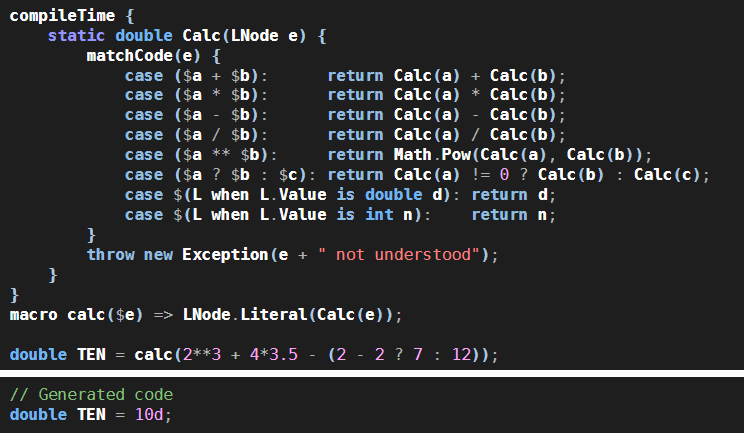
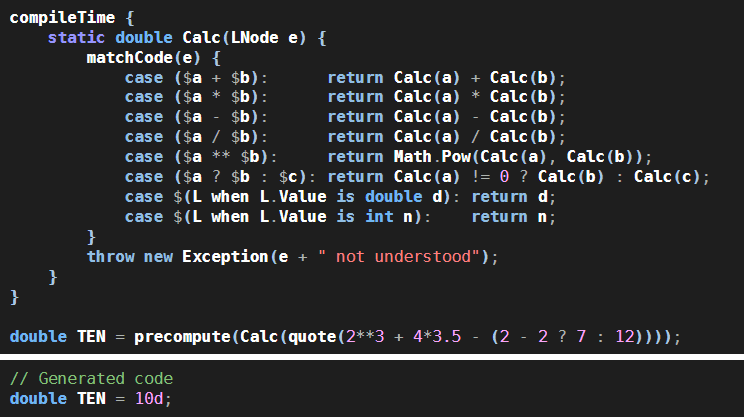
Feeble attempt at an elevator pitch #3

diff --git a/loyc-trees/index.md b/loyc-trees/index.md
@@ -66,6 +66,8 @@ Lest you get bored, here's a C# example. `LNode` means "Loyc tree or subtree" an
 
 ![](ecs_syntax_matching.png)
 
+Enhanced C# is a superset of C# that understands C# code not as a _Microsoft_ syntax tree but as a Loyc tree. Here, the `Calc` function is using a macro called `matchCode` to generate C# code that will deconstruct the Loyc tree it received as a parameter. A macro is a function that runs at compile time and transforms code into different code. For example, when `matchCode` sees the Loyc tree `case ($a + $b):`, it generates code that will check whether the input `e` is a Call to `'+` with two parameters. If so, it assigns the first parameter to a new variable called `a` and the second parameter to a new variable called `b`. The words `compileTime`, `precompute` and `quote` all refer to macros that do various tasks: `compileTime` runs C# code immediately and then deletes itself from the output; `precompute` computes something and then replaces itself with the result; and `quote` generates code that creates a Loyc tree.
+
 Maybe this doesn't seem interesting. After all, the C# compiler can already do calculations like this. But `Calc` could do more: it could do calculations on expressions written in TypeScript or LES or another language of your choice. It could read files and access databases. And instead of generating a numeric output, it could just as easily generate a piece of code as its output:
 
 ![](ecs_syntax_matching2.png)
